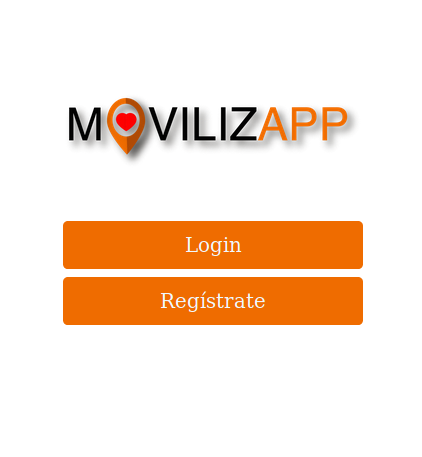
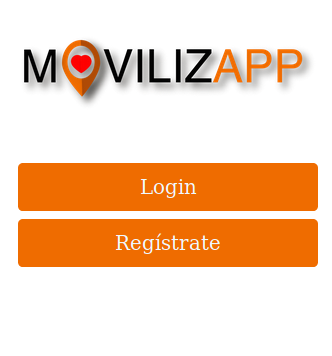
correcciones segun feedback

Changed region(s): [[0.0301, 0.4326, 0.9639, 0.7725], [0.0602, 0.0927, 0.9337, 0.3708]]

diff --git a/proyectos/style.css b/proyectos/style.css
@@ -30,8 +30,9 @@
   }
 
   img {
-      width: 230px;
-      height: 200px;
+      width: 200px;
+      height: 130px;
+      margin-left: 10px;
   }
   
   .divider {
